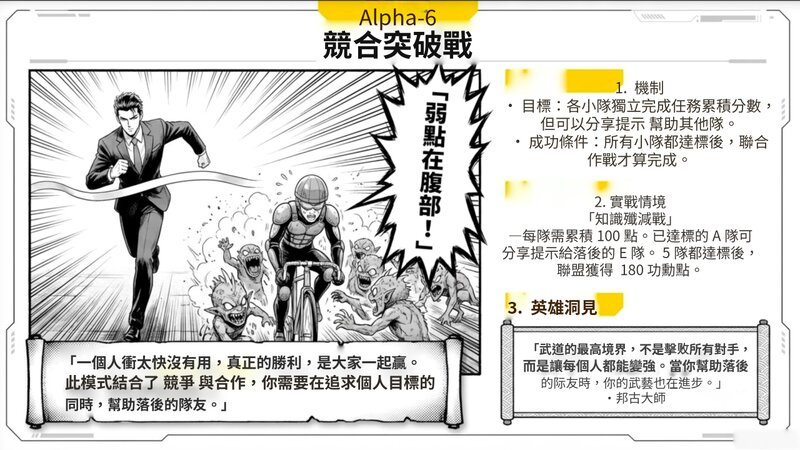
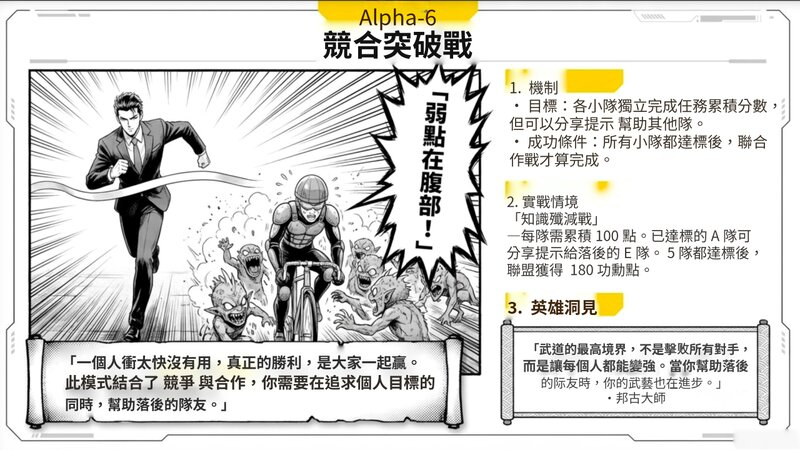
docs: 示範圖改用對齊修正後的輸出，圖說與版本說明同步
- assets/demo-native-alpha6.jpg、demo-native-kitchen.jpg 以 db7302d 重新產生
  （條列段落靠左）
- 六語圖說移除「內文一律置中」，改列現有限制：螢光標記色不保留、粗體偶爾遺失、
  OCR 偶有錯字
- 「尚未發布」加一條：多行內文依原稿靠左

Changed region(s): [[0.625, 0.1556, 0.9688, 0.3733], [0.625, 0.4356, 0.9375, 0.6222]]

diff --git a/README-fr.md b/README-fr.md
@@ -32,11 +32,12 @@ Compilation, utilisation en ligne de commande et notes de conception : [`n2p-rs/
 | <img src="assets/demo-v1.1-original.jpg" width="400"> | <img src="assets/demo-native-kitchen.jpg" width="400"> |
 
 > Le texte devient des zones de texte modifiables ; les illustrations restent en arrière-plan et le filigrane NotebookLM est supprimé (rendu avec LibreOffice).
-> Limites actuelles visibles ici : le corps de texte est centré, les couleurs de surlignage ne sont pas conservées et l’OCR peut mal lire quelques caractères.
+> Limites actuelles visibles ici : les couleurs de surlignage ne sont pas conservées, le gras est parfois perdu et l’OCR peut mal lire quelques caractères.
 
 ### Non publié (`main`, 2026-10-21)
 
 - **Version avec objets environ 2 fois plus rapide, pic mémoire de ~6 Go à ~1,9 Go** : SAM s’exécute désormais uniquement sur le CPU (présentation de 11 pages : 47–86 s, contre 103–183 s)
+- Le texte sur plusieurs lignes est aligné à gauche lorsque l’original l’est (il était toujours centré)
 - Dilatation des masques plus rapide pour l’extraction d’objets
 - Interface : la section des modèles indique si la version GPU de LaMa est prête
 - Outils de développement : la vérification de compatibilité PowerPoint ne lit et ne ferme que la présentation qu’elle a elle-même ouverte

diff --git a/README-es.md b/README-es.md
@@ -32,11 +32,12 @@ Compilación, uso por línea de comandos y notas de diseño: [`n2p-rs/README.md`
 | <img src="assets/demo-v1.1-original.jpg" width="400"> | <img src="assets/demo-native-kitchen.jpg" width="400"> |
 
 > El texto se convierte en cuadros de texto editables; las ilustraciones quedan en el fondo y se elimina la marca de agua de NotebookLM (resultado renderizado con LibreOffice).
-> Limitaciones actuales visibles aquí: el texto del cuerpo queda centrado, no se conservan los colores de resaltado y el OCR puede leer mal algunos caracteres.
+> Limitaciones actuales visibles aquí: no se conservan los colores de resaltado, a veces se pierde la negrita y el OCR puede leer mal algunos caracteres.
 
 ### Sin publicar (`main`, 2026-10-21)
 
 - **Versión con objetos unas 2 veces más rápida y pico de memoria de ~6 GB a ~1,9 GB**: SAM ahora se ejecuta solo en la CPU (presentación de 11 páginas: 47–86 s, antes 103–183 s)
+- El texto de varias líneas se alinea a la izquierda cuando así está en el original (antes siempre se centraba)
 - Dilatación de máscaras más rápida en la extracción de objetos
 - Interfaz: la sección de modelos indica si la versión GPU de LaMa está lista
 - Herramientas de desarrollo: la comprobación de compatibilidad con PowerPoint solo lee y cierra la presentación que abrió ella misma

diff --git a/README.md b/README.md
@@ -32,11 +32,12 @@ Build, CLI usage and design notes: [`n2p-rs/README.md`](n2p-rs/README.md). Third
 | <img src="assets/demo-v1.1-original.jpg" width="400"> | <img src="assets/demo-native-kitchen.jpg" width="400"> |
 
 > Text becomes editable text boxes; illustrations stay in the background and the NotebookLM watermark is removed (output rendered with LibreOffice).
-> Current limitations visible here: body text is centered, highlight colors are not kept, and OCR may misread a few characters.
+> Current limitations visible here: highlight colors are not kept, bold is sometimes lost, and OCR may misread a few characters.
 
 ### Unreleased (`main`, 2026-10-21)
 
 - **Object version about 2× faster, peak memory ~6 GB → ~1.9 GB**: SAM now runs on the CPU only (11-page deck: 47–86 s, was 103–183 s)
+- Multi-line body text is left-aligned when the original is (it used to be always centered)
 - Faster mask dilation for object extraction
 - GUI: the model section shows whether the GPU version of LaMa is ready
 - Developer tooling: the PowerPoint compatibility check only reads and closes the presentation it opened itself

diff --git a/README-zh-CN.md b/README-zh-CN.md
@@ -32,11 +32,12 @@
 | <img src="assets/demo-v1.1-original.jpg" width="400"> | <img src="assets/demo-native-kitchen.jpg" width="400"> |
 
 > 文字变成可编辑的文本框；插图保留在背景中，NotebookLM 水印已移除（输出用 LibreOffice 渲染）。
-> 图中可见的现有限制：正文一律居中、荧光标记色不保留、OCR 偶有错字。
+> 图中可见的现有限制：荧光标记色不保留、粗体偶尔丢失、OCR 偶有错字。
 
 ### 尚未发布（`main`，2026-10-21）
 
 - **对象版快约一倍，内存峰值从约 6 GB 降到约 1.9 GB**：SAM 改为只在 CPU 上运行（11 页演示文稿 47–86 秒，原本 103–183 秒）
+- 多行正文按原稿左对齐（原本一律居中）
 - 对象提取的掩码膨胀加速
 - 图形界面：模型区域显示 LaMa 的 GPU 版是否就绪
 - 开发工具：PowerPoint 兼容性检查只读取、只关闭自己打开的演示文稿

diff --git a/README-zh-TW.md b/README-zh-TW.md
@@ -32,11 +32,12 @@
 | <img src="assets/demo-v1.1-original.jpg" width="400"> | <img src="assets/demo-native-kitchen.jpg" width="400"> |
 
 > 文字變成可編輯的文字框；插圖留在背景，NotebookLM 浮水印已移除（輸出以 LibreOffice 渲染）。
-> 圖中可見的現有限制：內文一律置中、螢光標記色不保留、OCR 偶有錯字。
+> 圖中可見的現有限制：螢光標記色不保留、粗體偶爾遺失、OCR 偶有錯字。
 
 ### 尚未發布（`main`，2026-10-21）
 
 - **物件版快約一倍，記憶體峰值從約 6 GB 降到約 1.9 GB**：SAM 改在純 CPU 上跑（11 頁簡報 47–86 秒，原本 103–183 秒）
+- 多行內文依原稿靠左（原本一律置中）
 - 物件切出的遮罩外擴加速
 - GUI：模型區塊顯示 LaMa 的 GPU 版是否就緒
 - 開發工具：PowerPoint 相容性檢查只讀取、只關閉自己開啟的簡報
